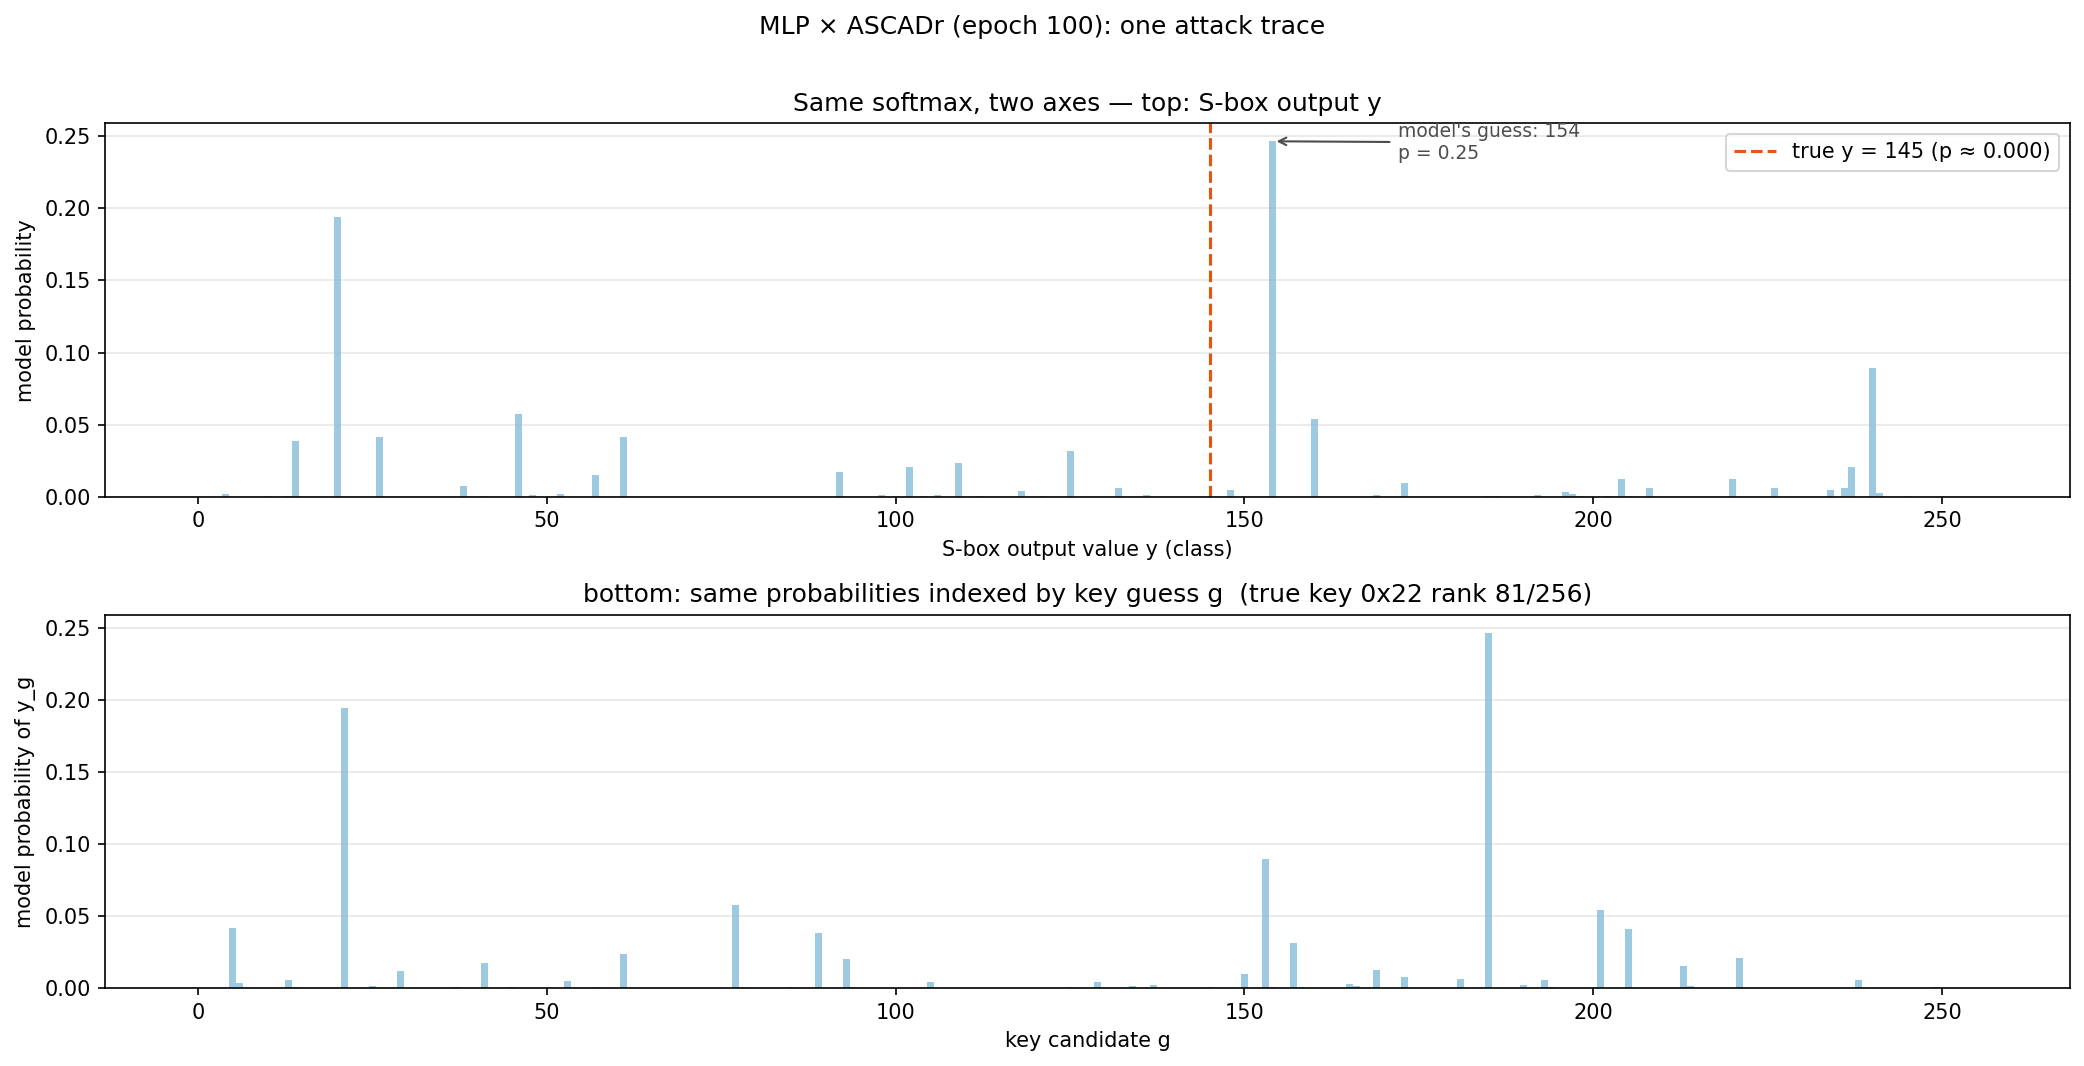
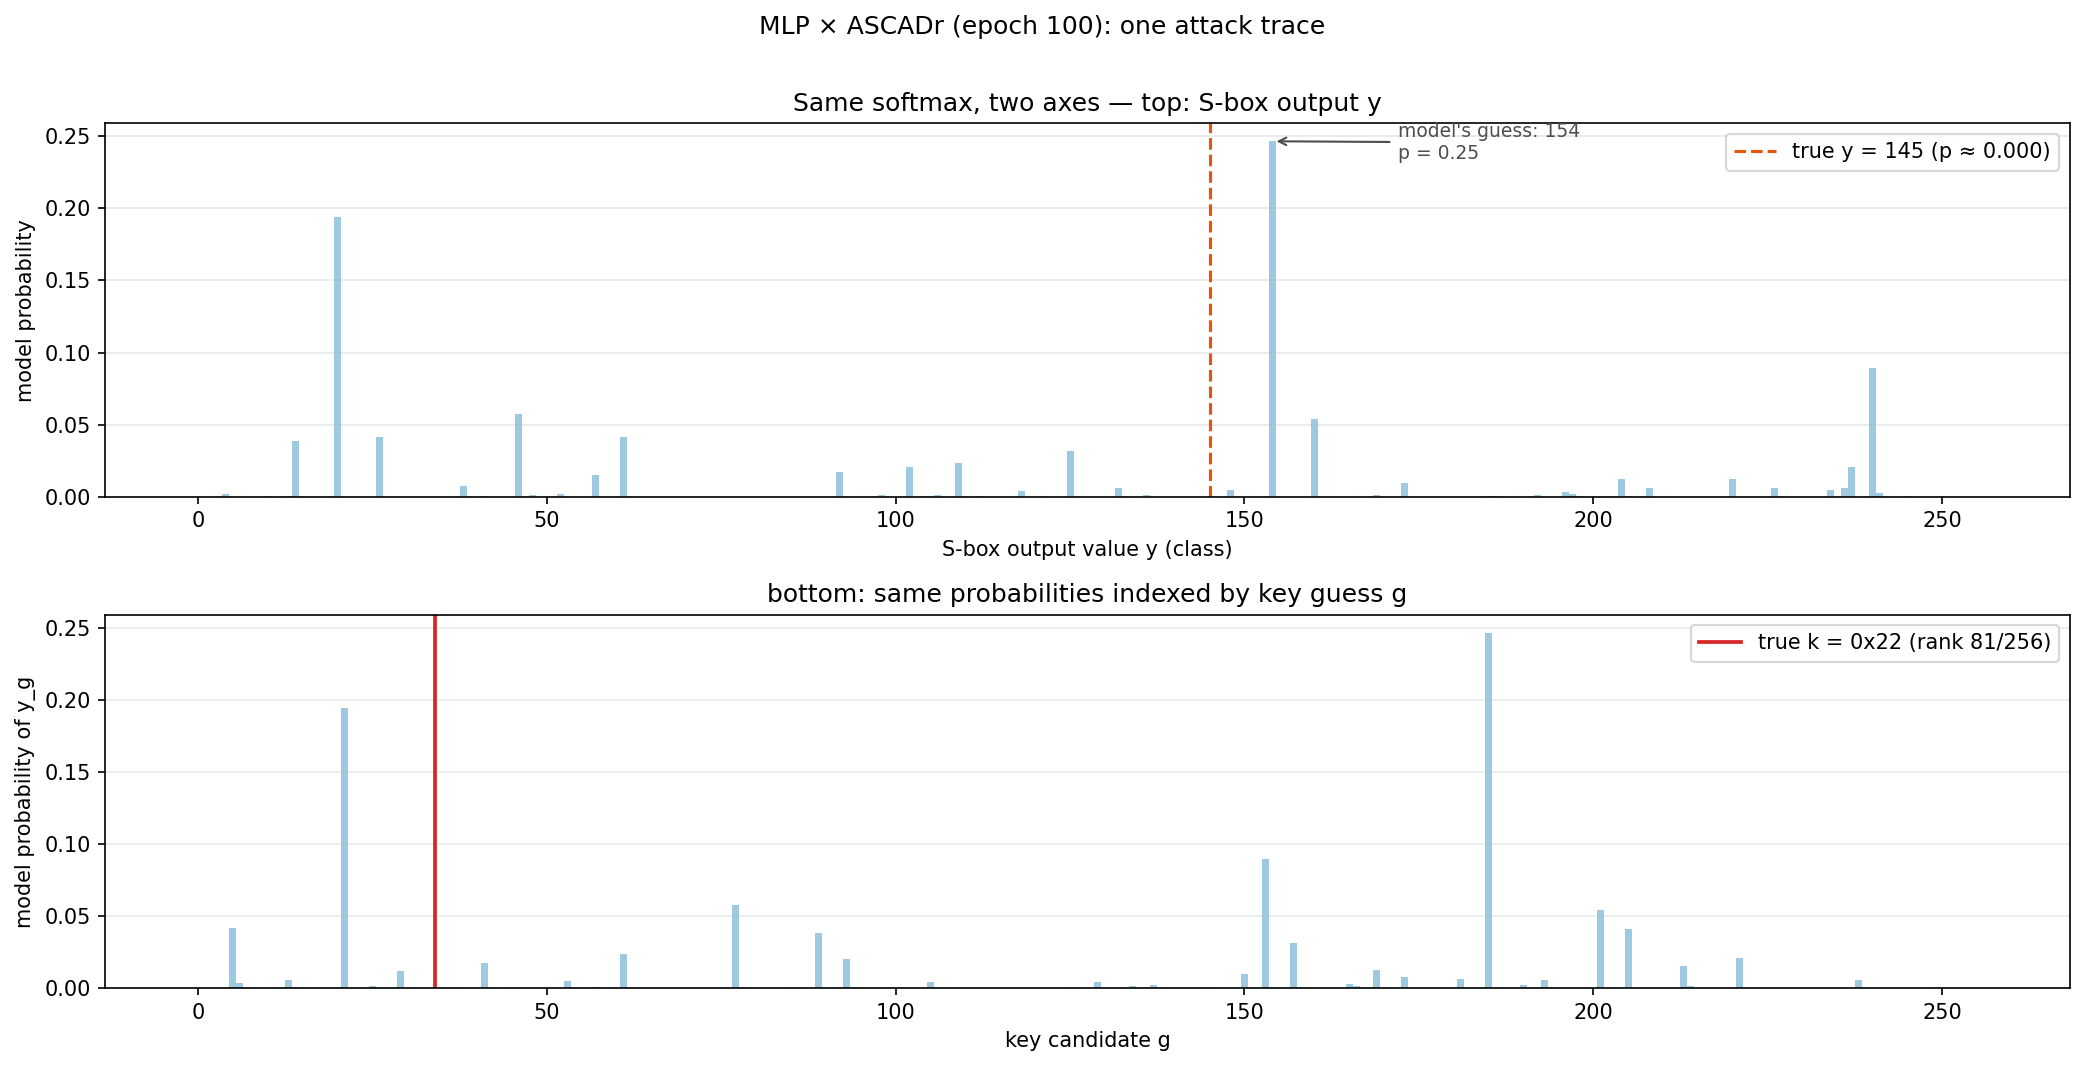
docs: clarify one-trace y→k tables and GE axis in chapter 7
Add black-box softmax flow with real ASCADr tables, mark true k on the
key-guess panel, and tighten the guessing-entropy reading notes.

diff --git a/analysis/03_the_attack.py b/analysis/03_the_attack.py
@@ -142,16 +142,16 @@ ax_y.set_ylabel("model probability")
 ax_y.grid(alpha=0.3, axis="y")
 ax_y.legend(loc="upper right")
 
-colors_g = np.full(256, "#9ecae1")
-colors_g[true_key] = "#e6550d"
-ax_g.bar(np.arange(256), probs_by_key, color=colors_g, width=1.0)
-ax_g.set_title(
-    f"bottom: same probabilities indexed by key guess g  "
-    f"(true key 0x{true_key:02x} rank {rank_of_true_key}/256)"
+ax_g.bar(np.arange(256), probs_by_key, color="#9ecae1", width=1.0)
+ax_g.axvline(
+    true_key, color="#d62728", ls="-", lw=1.8,
+    label=f"true k = 0x{true_key:02x} (rank {rank_of_true_key}/256)",
 )
+ax_g.set_title("bottom: same probabilities indexed by key guess g")
 ax_g.set_xlabel("key candidate g")
 ax_g.set_ylabel("model probability of y_g")
 ax_g.grid(alpha=0.3, axis="y")
+ax_g.legend(loc="upper right")
 
 fig.suptitle("MLP × ASCADr (epoch 100): one attack trace", y=1.01)
 fig.tight_layout()

diff --git a/docs/07_scoring_the_attack.md b/docs/07_scoring_the_attack.md
@@ -14,8 +14,8 @@ success emerged during training.
 
 1. What is known and what is secret.
 2. How `y` and `k` are tied by public algebra (exact `y` vs uncertain `y`).
-3. What one trace’s softmax looks like — over `y` and, remapped, over key
-   guesses.
+3. Black-box softmax over `y`, then one-trace tables: trace → `P(y)` → votes
+   on `k`.
 4. Why many traces must be combined on the key-guess axis (product of votes,
    then sum of logs for numerics).
 5. Guessing entropy: mean rank of the true key (how to read the curve).
@@ -91,67 +91,110 @@ k = p ⊕ x
 
 Example: `Sbox⁻¹[145] = 0xac`, then `0x8e ⊕ 0xac = 0x22`. No network needed.
 
-### If `y` is only a probability distribution
+### What the trained network actually outputs
 
-The trained network does not output a sure `y`. It outputs 256
-probabilities, one per possible S-box output. There is no single value to
-pass through `Sbox⁻¹`, so the attack does **not** compute
-`k = p ⊕ Sbox⁻¹[ŷ]` from the model’s peak class.
+From a data-science view the epoch-100 MLP is a **black box classifier**.
+It was trained to map a power trace to one of 256 classes: the possible
+values of `y`. It was **not** trained to output a key byte. The last layer
+is a softmax: 256 non-negative numbers that sum to 1 — a probability for
+each possible `y`.
 
-Instead the attacker enumerates every key guess `g ∈ {0,…,255}` and asks
-**forward**, with the known `p` of that trace:
-
-```text
-y_g = Sbox[p ⊕ g]              # public
-vote(g) = P(y_g | power)       # from the softmax
+```mermaid
+flowchart LR
+    T["power trace<br/>(2000 samples)"] --> N["trained MLP<br/>(black box)"]
+    N --> S["softmax<br/>P(y=0) … P(y=255)"]
 ```
 
-Only the true `k` matches what the chip actually computed. Concrete rows for
-the first attack trace (`p = 0x8e`):
+Hidden layers hold learned features; they are not labelled as `y`. The only
+place `y` appears by design is as the **training label** (profiling) and as
+this **output distribution** (attack).
+
+### One attack trace, three tables
+
+The first ASCADr attack trace has plaintext byte `p = 0x8e`. The true key
+byte on this dataset is `k = 0x22`, so the true intermediate is `y = 145`.
+Below: a fragment of the **scaled** trace (same preprocessing as training),
+a sparse view of the 256-class softmax, then the remapping to key guesses.
+Rows marked `…` are omitted; the full vectors have length 2000 and 256.
+
+**Table A — input (trace fragment)**
 
 ```text
-candidate g     p ⊕ g      y_g = Sbox[p ⊕ g]    HW(y_g)
-────────────────────────────────────────────────────────
-0x00            0x8e       25                   3
-0x01            0x8f       115                  5
-0x22            0xac       145                  3      ← true key byte
-0xff            0x71       163                  4
+sample index     scaled amplitude
+─────────────────────────────────
+0                  0.216
+1                  0.229
+2                 −0.399
+…                    …
+500               −0.993
+1000              −0.065
+1500              −0.237
+…                    …
+1998              −1.842
+1999              −1.644
 ```
+
+**Table B — network output (selected `P(y)`)**
 
 ```text
-power → network → P(y=0), …, P(y=255)
-
-g = 0x00  →  take P(y=25)
-g = 0x01  →  take P(y=115)
-g = 0x22  →  take P(y=145)
-g = 0xff  →  take P(y=163)
+y      P(y)         note
+──────────────────────────────────────────────
+20     0.194
+25     ~10⁻⁶
+46     0.058
+115    ~10⁻⁷
+145    ~10⁻⁶        ← true y (almost flat)
+154    0.247        ← model's peak class
+160    0.054
+163    ~10⁻¹²
+240    0.089
+…      …
+(all 256 sum to 1)
 ```
 
-That remapping is a reordering of the same 256 probabilities when `p` is
-fixed — not a second model, and not an inverse S-box on the peak. In code,
-the dataset stores every `y_g` for every attack plaintext as a matrix of
-shape 256 × n_attack (row = guess). It is only a lookup table for the
-algebra step.
+The peak is `y = 154` with probability ≈ 0.25 — not the true `145`. Inverting
+that peak with `Sbox⁻¹` would give the **wrong** key. The attack never does
+that.
+
+**Table C — same probabilities on key guesses** (`p = 0x8e` fixed)
+
+For each candidate `g`, public algebra gives `y_g = Sbox[p ⊕ g]`. The vote
+for `g` is simply `P(y_g)` from Table B:
+
+```text
+guess g     y_g = Sbox[p⊕g]     vote = P(y_g)      note
+────────────────────────────────────────────────────────────
+0x00        25                  ~10⁻⁶
+0x01        115                 ~10⁻⁷
+0x22        145                 ~10⁻⁶              ← true k
+0xb9        154                 0.247              ← best vote this trace
+0xff        163                 ~10⁻¹²
+…           …                   …
+```
+
+Table C is Table B with rows reordered by `g` (for fixed `p` the map
+`g ↔ y_g` is a bijection). No second model. On this single trace the true
+key’s vote is tiny (rank 81 of 256); the largest vote belongs to a wrong
+guess. That is why one softmax is not a recovered key.
+
+In code, the dataset precomputes every `y_g` for every attack plaintext as a
+matrix of shape 256 × n_attack. It is only a lookup table for Table C’s
+middle column.
 
 ## 3. One trace is not enough
 
-Feed one attack trace to the epoch-100 model. The figure shows the **same**
-softmax twice: top axis = S-box output `y`; bottom axis = key guess `g`
-(via `y_g = Sbox[p ⊕ g]`). Orange on the bottom is the true key byte.
+The same numbers as a plot — top axis `y`, bottom axis `g`:
 
 ![Model output for one attack trace, over y and over key guesses](assets/figures/04_prediction.png)
 
-The network can look confident — one class may collect about a quarter of
-the probability mass — while still missing the true `y`, and while the true
-key is not the tallest bar on the bottom. ASCADr is masked
-([Chapter 3](03_masking.md)): a single trace carries
+ASCADr is masked ([Chapter 3](03_masking.md)): a single trace carries
 `Sbox[plaintext ⊕ key] ⊕ mask`, randomized per encryption. Without the
-mask, the network cannot name the unmasked value from one recording.
+mask, the network cannot name the unmasked `y` from one recording.
 
 Over the first 500 attack traces the model’s best guess is right on only 4;
 the true value receives about twice the uniform probability (0.0089 vs
 0.0039). That is above chance, and it is not enough to call the key from one
-shot.
+shot. The next section combines many Table-C votes for the same secret `k`.
 
 ## 4. Accumulating votes across traces
 
@@ -167,17 +210,16 @@ y = Sbox[p ⊕ k]
 sits on a **different class** on almost every trace. Averaging those softmax
 vectors blurs peaks that were never aligned.
 
-What stays fixed is the key byte. For every trace the attacker builds the
-**bottom-style** scores (one probability per `g`) and combines those scores
-across traces.
+What stays fixed is the key byte. For every trace the attacker builds a
+Table C (one vote per `g`) and combines those votes across traces.
 
 ### Why combine votes at all?
 
-Each bottom-style score is a weak clue: “how compatible is *this* power
-recording with the story that the key byte is `g`?” One clue is noisy
-(masking). The secret `k` does not change between encryptions, so the same
-`g` is on trial in every trace. The attacker needs a rule that says how
-well **the whole set of recordings** fits each story.
+Each Table-C vote is a weak clue: “how compatible is *this* power recording
+with the story that the key byte is `g`?” One clue is noisy (masking). The
+secret `k` does not change between encryptions, so the same `g` is on trial
+in every trace. The attacker needs a rule that says how well **the whole
+set of recordings** fits each story.
 
 ### Why a product (not a sum of the raw probabilities)
 
@@ -258,9 +300,8 @@ already the attack outcome for one fixed list of traces.
 ### Why average — and what GE is
 
 Which traces you pick changes that rank (a lucky batch reaches 1 sooner; an
-unlucky batch later). **Guessing entropy** (GE) is not Shannon entropy and
-not a new kind of network output. It is the **mean rank of the true key**,
-averaged over many random draws of the attack set:
+unlucky batch later). **Guessing entropy** (GE) is the **mean rank of the
+true key**, averaged over many random draws of the attack set:
 
 1. Shuffle / draw a random subset of attack traces.
 2. Accumulate log-evidence; read the true key’s rank (1…256).
@@ -278,8 +319,9 @@ recovery here.
 
 - **Horizontal axis:** how many attack traces enter the product / sum of
   logs (more clues).
-- **Vertical axis:** that mean rank (GE). The scale is logarithmic so the
-  drop from ~100 down to 1 stays visible.
+- **Vertical axis:** mean rank of the true key among the 256 candidates
+  (1 = first place, 256 = last). That average is GE. The scale is
+  logarithmic so the drop from ~100 down to 1 stays visible.
 - **Grey dotted line (128):** random-guessing baseline.
 - **Orange dashed line (1):** “key recovered” — true byte ranked first on
   average.
@@ -288,10 +330,9 @@ recovery here.
   from about trace 86 onward it stays at 1 out to 4,000.
 
 The progress panels showed one fixed run climbing to rank 1 by twenty
-traces. The GE curve answers the stabler question: *on average, after how
-many measurements is the true byte first?* About 86 here. That count is
-what this project means when it says the finished model recovers the key
-byte.
+traces. The GE curve answers: *on average, after how many measurements is
+the true byte first?* About 86 here — that is the usual “how many traces
+do I need?” figure for this model and dataset.
 
 ## 6. Notebook and next question
 
